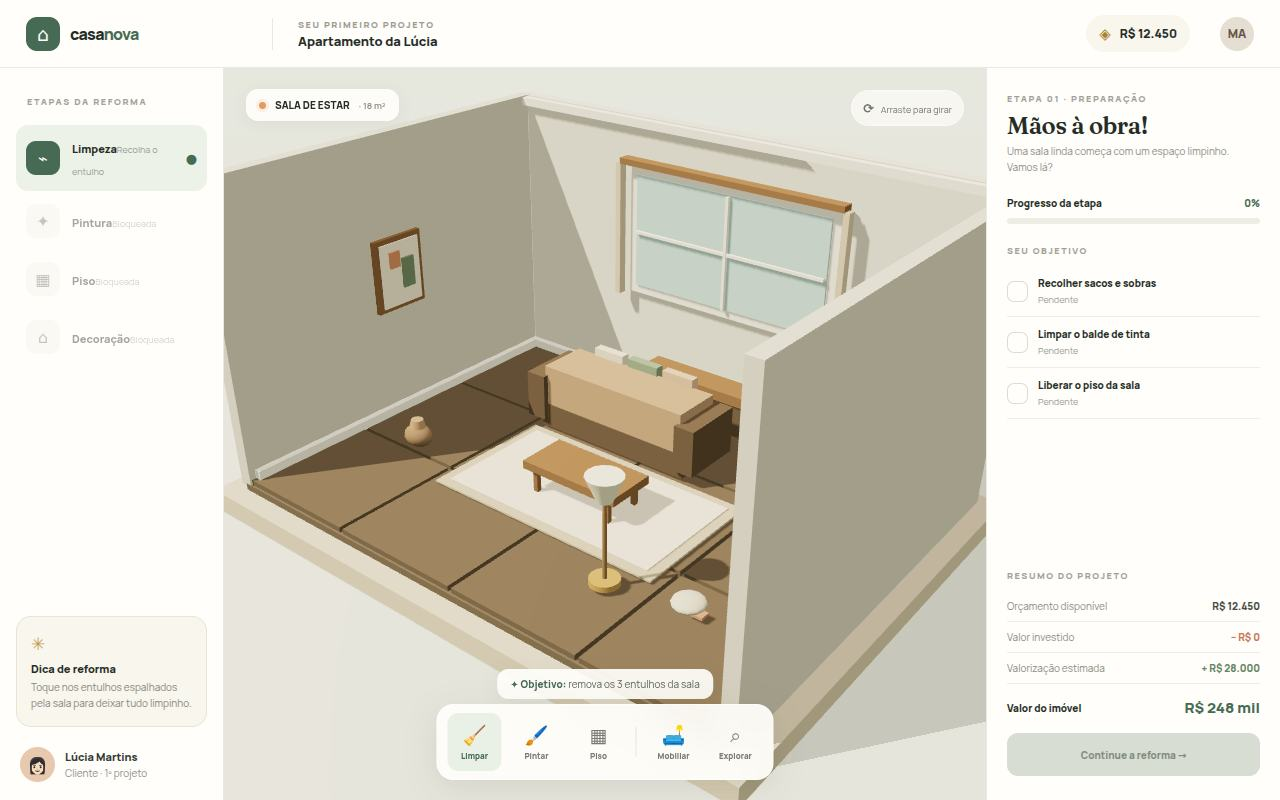
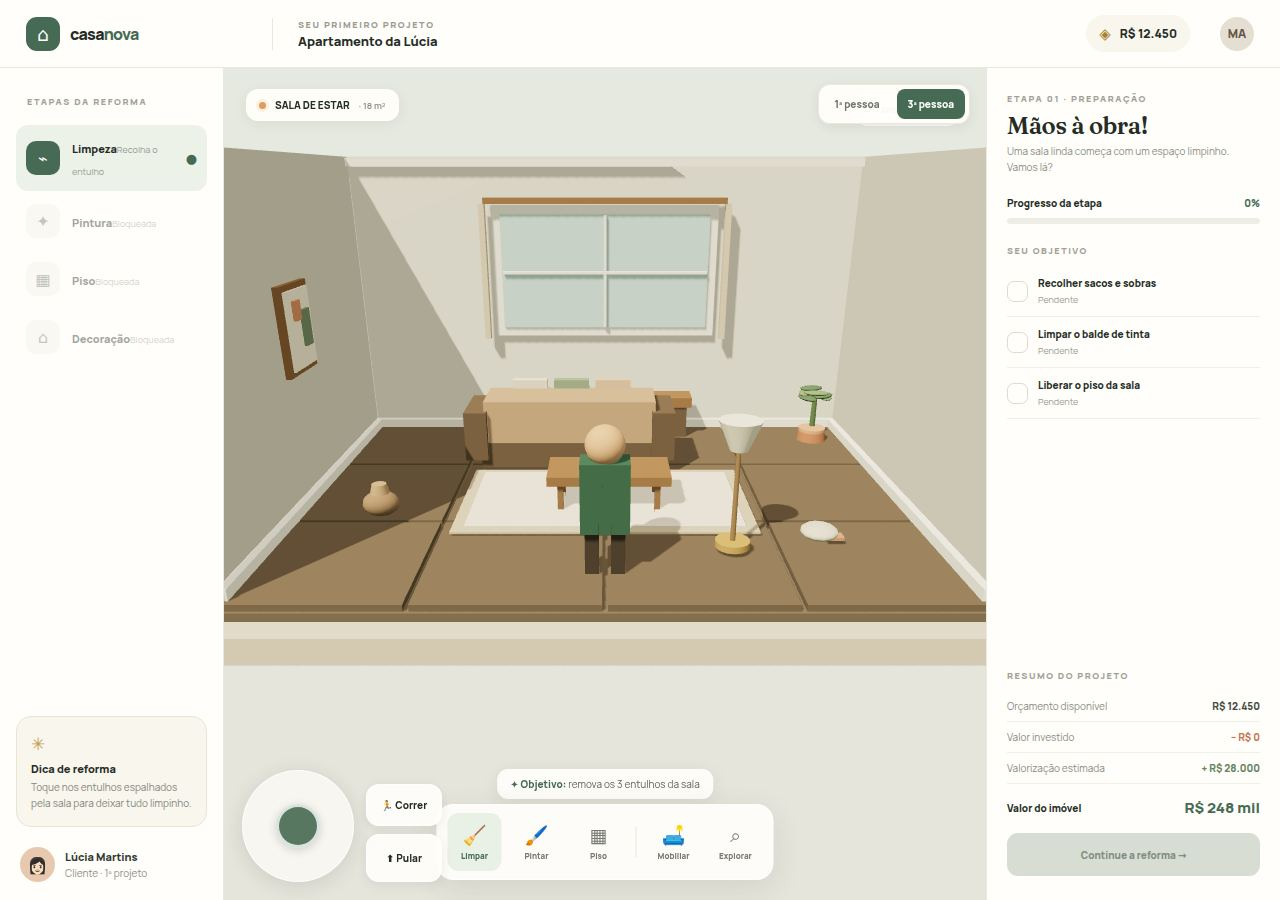
Publish static build for issue #1
Run: 43530360311
Attempt: 1
Generation: 7
Source: 6151cc0d538459a9d2c736183726f8a03269a604

diff --git a/index.html b/index.html
@@ -9,13 +9,13 @@
 @media(max-width:760px){.topbar{height:54px;padding:0 14px;gap:11px}.brand{width:auto;gap:8px}.brand-mark{width:30px;height:30px;border-radius:9px;font-size:16px}.brand-name{font-size:14px}.top-project{padding-left:11px}.eyebrow{font-size:7px;letter-spacing:1px}.project-name{font-size:10px}.coin{padding:7px 9px;font-size:10px;gap:5px}.coin i{font-size:12px}.avatar{height:29px;width:29px;font-size:10px;margin:0}.main{position:relative}.center{position:absolute;inset:0}.leftbar{display:none}.rightbar{display:none}.mobile-top{display:flex;position:absolute;top:11px;left:12px;right:12px;z-index:2;justify-content:space-between;align-items:flex-start;pointer-events:none}.mobile-card{background:#fffefaee;border-radius:12px;padding:9px 11px;box-shadow:0 3px 12px #252c2715;pointer-events:auto}.mobile-step{font-size:8px;color:#919389;font-weight:800;letter-spacing:1px}.mobile-title{font:600 16px Fraunces,serif;margin-top:2px}.mobile-progress{font-size:9px;font-weight:800;color:var(--green);display:flex;align-items:center;gap:6px}.mobile-progress i{width:39px;height:4px;background:linear-gradient(90deg,#648264 var(--p,0%),#ebece4 var(--p,0%));border-radius:4px}.camera-hint{top:73px;right:12px;padding:6px 9px;font-size:8px}.scene-badge{top:73px;left:12px;font-size:9px;padding:7px 9px;gap:6px}.toast{top:119px;font-size:10px;max-width:calc(100% - 30px);overflow:hidden;text-overflow:ellipsis}.taskbar{bottom:max(15px,env(safe-area-inset-bottom));gap:3px;padding:6px 7px;border-radius:15px}.tool{width:48px;height:51px}.tool-icon{font-size:17px;line-height:20px}.tool-label{font-size:7px}.tool-sep{height:25px;margin:0}.task-pop{bottom:83px;font-size:9px;max-width:calc(100% - 24px);overflow:hidden;text-overflow:ellipsis}.mobile-stage{display:flex;position:absolute;z-index:2;left:12px;right:12px;bottom:92px;align-items:center;justify-content:space-between;pointer-events:none}.stage-pill{font-size:9px;background:#fffefaeb;padding:7px 10px;border-radius:9px;box-shadow:0 2px 9px #252c2710;font-weight:800}.stage-next{font-size:9px;background:var(--green);color:white;padding:8px 11px;border-radius:9px;font-weight:800;border:0;pointer-events:auto}.stage-next:disabled{opacity:.45}.brand .brand-name{letter-spacing:-.5px}}
 @media(max-width:390px){.brand-name{font-size:12px}.top-project{display:none}.tool{width:43px}.mobile-title{font-size:14px}.taskbar{gap:1px}.tool-sep{margin:0 1px}}
 @media(orientation:landscape) and (max-height:520px){.topbar{height:46px}.leftbar{padding-top:10px}.rightbar{padding-top:12px}.scene-badge{top:10px}.camera-hint{top:10px}.taskbar{bottom:8px}.task-pop{bottom:83px}.mobile-top{top:7px}.mobile-stage{bottom:77px}.tool{height:45px}}
-</style>
+#game,#game canvas{touch-action:none}.view-controls{position:absolute;z-index:4;top:16px;right:16px;display:flex;gap:6px;padding:4px;background:#fffefaed;border:1px solid #eae8df;border-radius:12px;box-shadow:0 3px 12px #252c2715}.view-btn{border:0;background:transparent;border-radius:8px;padding:8px 11px;font-size:10px;font-weight:800;color:#71766e}.view-btn.active{background:var(--green);color:white}.move-controls{position:absolute;z-index:4;left:18px;bottom:18px;display:flex;align-items:flex-end;gap:12px;pointer-events:none}.joystick{width:112px;height:112px;border-radius:50%;background:#fffefaad;border:1px solid #ffffffc9;box-shadow:0 4px 20px #252c2720;position:relative;touch-action:none;pointer-events:auto}.joy-thumb{position:absolute;width:44px;height:44px;left:50%;top:50%;transform:translate(-50%,-50%);border-radius:50%;background:#466a54e8;border:3px solid #ffffffc9;box-shadow:0 2px 8px #252c2730}.action-controls{display:flex;flex-direction:column;gap:8px;pointer-events:auto}.action-btn{min-width:76px;height:42px;border:1px solid #ffffffc9;border-radius:13px;background:#fffefaed;box-shadow:0 3px 12px #252c2715;font-size:10px;font-weight:800;touch-action:none}.action-btn.active{background:var(--green);color:white}.jump-btn{height:48px}.look-crosshair{position:absolute;z-index:2;left:50%;top:50%;width:7px;height:7px;margin:-3px 0 0 -3px;border:1px solid #fff;border-radius:50%;box-shadow:0 0 3px #20251f;pointer-events:none;display:none}.center.fps .look-crosshair{display:block}.center.fps .camera-hint{display:none}.center.fps #game{cursor:crosshair}.center.fps #game canvas{cursor:crosshair}@media(max-width:760px){.view-controls{top:116px;right:12px;padding:3px;gap:2px}.view-btn{padding:7px 8px;font-size:8px}.move-controls{left:12px;bottom:105px;gap:8px}.joystick{width:94px;height:94px}.joy-thumb{width:38px;height:38px}.action-btn{min-width:66px;height:38px;font-size:9px}.jump-btn{height:44px}.center.fps .taskbar{bottom:max(15px,env(safe-area-inset-bottom))}}@media(max-width:390px){.move-controls{bottom:102px}.joystick{width:82px;height:82px}.joy-thumb{width:34px;height:34px}.action-btn{min-width:58px;height:35px}.jump-btn{height:41px}}\n</style>
 </head>
 <body><div id="app">
 <header class="topbar"><div class="brand"><div class="brand-mark">⌂</div><div class="brand-name">casa<span>nova</span></div></div><div class="top-project"><div class="eyebrow">SEU PRIMEIRO PROJETO</div><div class="project-name">Apartamento da Lúcia</div></div><div class="top-spacer"></div><div class="coin"><i>◈</i><span id="cash">R$ 12.450</span></div><div class="avatar">MA</div></header>
 <div class="main">
 <aside class="leftbar"><div class="left-title">ETAPAS DA REFORMA</div><div id="phaseList"></div><div class="side-bottom"><div class="tip-card"><div class="tip-star">✳</div><div class="tip-title">Dica de reforma</div><div class="tip-copy" id="tipCopy">Toque nos entulhos espalhados pela sala para deixar tudo limpinho.</div></div><div class="client-row"><div class="client-avatar">👩🏻</div><div class="client-copy"><b>Lúcia Martins</b>Cliente · 1º projeto</div></div></div></aside>
-<section class="center"><div id="game" aria-label="Cena 3D interativa da reforma"></div><div class="scene-badge"><span class="scene-dot"></span><span>SALA DE ESTAR</span><span class="scene-sub">· 18 m²</span></div><div class="camera-hint"><b>⟳</b> Arraste para girar</div><div id="toast" class="toast"></div><div class="mobile-top"><div class="mobile-card"><div class="mobile-step" id="mobileStep">ETAPA 01</div><div class="mobile-title" id="mobileTitle">Vamos limpar</div></div><div class="mobile-card mobile-progress"><i id="mobileProgress"></i><span id="mobileCount">0 / 3</span></div></div><div class="mobile-stage"><div class="stage-pill" id="mobileStagePill">⌁&nbsp; Limpeza</div><button class="stage-next" id="mobileNext" disabled>Continuar&nbsp; →</button></div><div class="task-pop" id="taskPop"><strong>✦ Objetivo:</strong> remova os 3 entulhos da sala</div><div class="taskbar" id="taskbar"><button class="tool active" data-tool="clean"><span class="tool-icon">🧹</span><span class="tool-label">Limpar</span></button><button class="tool" data-tool="paint"><span class="tool-icon">🖌</span><span class="tool-label">Pintar</span></button><button class="tool" data-tool="floor"><span class="tool-icon">▦</span><span class="tool-label">Piso</span></button><span class="tool-sep"></span><button class="tool" data-tool="furnish"><span class="tool-icon">🛋</span><span class="tool-label">Mobiliar</span></button><button class="tool" data-tool="inspect"><span class="tool-icon">⌕</span><span class="tool-label">Explorar</span></button></div></section>
+<section class="center"><div id="game" aria-label="Cena 3D interativa da reforma"></div><div class="view-controls" aria-label="Modo de câmera"><button class="view-btn active" data-view="first">1ª pessoa</button><button class="view-btn" data-view="third">3ª pessoa</button></div><div class="look-crosshair"></div><div class="move-controls"><div class="joystick" id="joystick" aria-label="Joystick para andar"><div class="joy-thumb" id="joyThumb"></div></div><div class="action-controls"><button class="action-btn" id="runBtn">🏃 Correr</button><button class="action-btn jump-btn" id="jumpBtn">⬆ Pular</button></div></div><div class="scene-badge"><span class="scene-dot"></span><span>SALA DE ESTAR</span><span class="scene-sub">· 18 m²</span></div><div class="camera-hint"><b>⟳</b> Arraste para girar</div><div id="toast" class="toast"></div><div class="mobile-top"><div class="mobile-card"><div class="mobile-step" id="mobileStep">ETAPA 01</div><div class="mobile-title" id="mobileTitle">Vamos limpar</div></div><div class="mobile-card mobile-progress"><i id="mobileProgress"></i><span id="mobileCount">0 / 3</span></div></div><div class="mobile-stage"><div class="stage-pill" id="mobileStagePill">⌁&nbsp; Limpeza</div><button class="stage-next" id="mobileNext" disabled>Continuar&nbsp; →</button></div><div class="task-pop" id="taskPop"><strong>✦ Objetivo:</strong> remova os 3 entulhos da sala</div><div class="taskbar" id="taskbar"><button class="tool active" data-tool="clean"><span class="tool-icon">🧹</span><span class="tool-label">Limpar</span></button><button class="tool" data-tool="paint"><span class="tool-icon">🖌</span><span class="tool-label">Pintar</span></button><button class="tool" data-tool="floor"><span class="tool-icon">▦</span><span class="tool-label">Piso</span></button><span class="tool-sep"></span><button class="tool" data-tool="furnish"><span class="tool-icon">🛋</span><span class="tool-label">Mobiliar</span></button><button class="tool" data-tool="inspect"><span class="tool-icon">⌕</span><span class="tool-label">Explorar</span></button></div></section>
 <aside class="rightbar"><div class="inspector-kicker" id="inspectorKicker">ETAPA 01 · PREPARAÇÃO</div><div class="inspector-title" id="inspectorTitle">Mãos à obra!</div><div class="inspector-desc" id="inspectorDesc">Uma sala linda começa com um espaço limpinho. Vamos lá?</div><div class="progress-wrap"><div class="progress-label"><span>Progresso da etapa</span><span id="progressText">0%</span></div><div class="progress-track"><div class="progress-fill" id="progressFill"></div></div></div><div class="objective-head">SEU OBJETIVO</div><div id="objectives"></div><div id="catalog" class="item-list" style="display:none"></div><div class="budget-card"><div class="objective-head">RESUMO DO PROJETO</div><div class="budget-line"><span>Orçamento disponível</span><strong id="budgetStart">R$ 12.450</strong></div><div class="budget-line"><span>Valor investido</span><strong class="minus" id="spent">− R$ 0</strong></div><div class="budget-line"><span>Valorização estimada</span><strong class="plus">+ R$ 28.000</strong></div><div class="budget-total"><span>Valor do imóvel</span><strong>R$ 248 mil</strong></div><button id="completeBtn" class="complete-btn" disabled>Continue a reforma&nbsp; →</button></div></aside>
 </div></div>
 <div class="modal-backdrop" id="finishModal"><div class="modal"><div class="modal-emoji">🏡✨</div><h2>Ficou um sonho!</h2><p>A Lúcia vai amar a casa nova. Você transformou cada cantinho com carinho — e ainda valorizou o imóvel!</p><div class="modal-stats"><div class="stat"><b>+R$ 28 mil</b><span>VALORIZAÇÃO</span></div><div class="stat"><b id="finishSpent">R$ 0</b><span>INVESTIDO</span></div><div class="stat"><b>100%</b><span>CLIENTE FELIZ</span></div></div><button id="restartBtn">Reformar mais uma vez&nbsp; ↻</button></div></div>

diff --git a/game.js b/game.js
@@ -29,9 +29,20 @@ cyl(room,.2,.2,.08,mat('#bb985a'),1.45,.24,1.8);cyl(room,.025,.03,1.15,mat('#997
 const trash=[];function makeTrash(x,z,n){let g=new THREE.Group();g.position.set(x,.12,z);g.userData.trash=true;room.add(g);if(n===0){let a=new THREE.Mesh(new THREE.SphereGeometry(.23,14,10),mat('#9a7e63'));a.scale.set(1,.7,.8);a.position.y=.2;g.add(a);cyl(g,.09,.12,.12,mat('#b69776'),0,.4,0)}if(n===1){let a=new THREE.Mesh(new THREE.SphereGeometry(.22,12,10),mat('#d5cebb'));a.scale.set(1,.4,1);a.position.y=.15;g.add(a);box(g,.2,.04,.14,mat('#bf8e71'),.17,.1,.05)}if(n===2){cyl(g,.19,.15,.36,mat('#7b806f'),0,.2,0);cyl(g,.22,.22,.05,mat('#a3a18c'),0,.4,0)}trash.push(g)}makeTrash(-2.8,.85,0);makeTrash(2.5,1.55,1);makeTrash(-1.85,-2.2,2);
 const ground=new THREE.Mesh(new THREE.PlaneGeometry(200,200),mat('#e2e6dc'));ground.rotation.x=-Math.PI/2;ground.position.y=-.37;ground.receiveShadow=true;scene.add(ground);
 
-const cameraTarget=new THREE.Vector3(0,.95,0),raycaster=new THREE.Raycaster(),pointer=new THREE.Vector2();let down=null,dragged=false,angle=.68,zoom=1;
-function fit(){const el=$('#game'),w=el.clientWidth,h=el.clientHeight;if(!w||!h)return;renderer.setSize(w,h,false);camera.aspect=w/h;camera.fov=innerWidth<760?38:36;const mobile=innerWidth<760,portrait=innerHeight>innerWidth,d=mobile?(portrait?17:13.6):13.2;const theta=angle;camera.position.set(Math.sin(theta)*d/zoom,(mobile?.60:.63)*d/zoom,Math.cos(theta)*d/zoom);camera.lookAt(cameraTarget);camera.updateProjectionMatrix()}
+const cameraTarget=new THREE.Vector3(0,.95,0),raycaster=new THREE.Raycaster(),pointer=new THREE.Vector2();let down=null,dragged=false,angle=0,zoom=1,viewMode='first',yaw=0,pitch=.16,moveX=0,moveY=0,running=false,jumpVelocity=0,jumpHeight=0,lastFrame=performance.now();
+const player={x:0,z:2.25};const avatar=new THREE.Group();avatar.position.set(player.x,0,player.z);room.add(avatar);const avatarMat=mat('#466a54'),skinMat=mat('#d7aa83');box(avatar,.52,.78,.32,avatarMat,0,1.03,0);const head=new THREE.Mesh(new THREE.SphereGeometry(.21,16,12),skinMat);head.position.set(0,1.58,0);head.castShadow=true;avatar.add(head);for(const x of [-.14,.14])box(avatar,.15,.65,.17,mat('#51483e'),x,.36,0);avatar.visible=false;
+function fit(){const el=$('#game'),w=el.clientWidth,h=el.clientHeight;if(!w||!h)return;renderer.setSize(w,h,false);camera.aspect=w/h;camera.fov=innerWidth<760?62:58;camera.updateProjectionMatrix();updateCamera()}
+function updateCamera(){avatar.visible=viewMode==='third';avatar.position.set(player.x,0,player.z);avatar.rotation.y=yaw;if(viewMode==='first'){camera.position.set(player.x,1.62+jumpHeight,player.z);camera.rotation.order='YXZ';camera.rotation.set(pitch,yaw,0)}else{const d=(innerWidth<760?8.2:7.2)/zoom,target=new THREE.Vector3(player.x,1.15+jumpHeight,player.z);camera.position.set(player.x+Math.sin(angle)*d,4.1+jumpHeight,player.z+Math.cos(angle)*d);camera.lookAt(target)}}
 new ResizeObserver(fit).observe($('#game'));window.addEventListener('resize',fit);fit();
+function setView(mode){viewMode=mode;$$('.view-btn').forEach(b=>b.classList.toggle('active',b.dataset.view===mode));$('#game').parentElement.classList.toggle('fps',mode==='first');updateCamera()}
+$$('.view-btn').forEach(b=>b.addEventListener('click',()=>setView(b.dataset.view)));setView(viewMode);
+const joy=$('#joystick'),joyThumb=$('#joyThumb');function resetJoy(){moveX=moveY=0;joyThumb.style.transform='translate(-50%,-50%)';joy.classList.remove('engaged')}
+joy.addEventListener('pointerdown',e=>{e.preventDefault();joy.setPointerCapture(e.pointerId);joy.classList.add('engaged');moveJoy(e)});joy.addEventListener('pointermove',e=>{if(joy.hasPointerCapture(e.pointerId))moveJoy(e)});joy.addEventListener('pointerup',resetJoy);joy.addEventListener('pointercancel',resetJoy);
+function moveJoy(e){const r=joy.getBoundingClientRect(),dx=e.clientX-(r.left+r.width/2),dy=e.clientY-(r.top+r.height/2),max=r.width*.34,len=Math.hypot(dx,dy),scale=len>max?max/len:1;moveX=dx*scale/max;moveY=dy*scale/max;joyThumb.style.transform=`translate(calc(-50% + ${dx*scale}px),calc(-50% + ${dy*scale}px))`}
+const runBtn=$('#runBtn'),jumpBtn=$('#jumpBtn');runBtn.addEventListener('pointerdown',e=>{e.preventDefault();running=true;runBtn.classList.add('active');runBtn.setPointerCapture(e.pointerId)});function stopRun(){running=false;runBtn.classList.remove('active')}runBtn.addEventListener('pointerup',stopRun);runBtn.addEventListener('pointercancel',stopRun);runBtn.addEventListener('lostpointercapture',stopRun);
+function jump(){if(jumpHeight<=0.001)jumpVelocity=5.1}jumpBtn.addEventListener('pointerdown',e=>{e.preventDefault();jump()});
+const keys=new Set();window.addEventListener('keydown',e=>{const k=e.key.toLowerCase();if(['w','a','s','d','arrowup','arrowdown','arrowleft','arrowright',' '].includes(k)&&!['BUTTON','INPUT'].includes(e.target?.tagName))e.preventDefault();keys.add(k);if(k===' ')jump();if(k==='shift')running=true});window.addEventListener('keyup',e=>{keys.delete(e.key.toLowerCase());if(e.key==='Shift')running=false});window.addEventListener('blur',()=>{keys.clear();running=false;resetJoy()});
+function updatePlayer(dt){let x=moveX,y=moveY;if(keys.has('a')||keys.has('arrowleft'))x-=1;if(keys.has('d')||keys.has('arrowright'))x+=1;if(keys.has('w')||keys.has('arrowup'))y-=1;if(keys.has('s')||keys.has('arrowdown'))y+=1;const len=Math.hypot(x,y);if(len>1){x/=len;y/=len}let forwardX,forwardZ;if(viewMode==='first'){forwardX=-Math.sin(yaw);forwardZ=-Math.cos(yaw)}else{forwardX=-Math.sin(angle);forwardZ=-Math.cos(angle)}const rightX=-forwardZ,rightZ=forwardX,speed=running?3.8:2.25;player.x=THREE.MathUtils.clamp(player.x+(rightX*x+forwardX*-y)*speed*dt,-3.52,3.52);player.z=THREE.MathUtils.clamp(player.z+(rightZ*x+forwardZ*-y)*speed*dt,-2.5,2.52);if(viewMode==='third'&&len>.12)yaw=Math.atan2(forwardX*-y+rightX*x,-(forwardZ*-y+rightZ*x));jumpHeight=Math.max(0,jumpHeight+jumpVelocity*dt);jumpVelocity-=14*dt;if(jumpHeight===0&&jumpVelocity<0)jumpVelocity=0;updateCamera()}
 function pop(text){const el=$('#toast');el.textContent=text;el.classList.add('show');clearTimeout(pop.timer);pop.timer=setTimeout(()=>el.classList.remove('show'),2100)}
 function count(){return stage===0?cleaned:stage===1?painted.size:stage===2?tiles.size:placed.size}
 function pct(){return Math.round(count()/goals[stage]*100)}
@@ -50,5 +61,5 @@ function interact(e){if(tool==='inspect')return;let target=null;if(stage===0){co
 if(stage===1){const h=hitsFor([back,left,right],e).find(x=>x.object);if(!h){pop('Toque em uma das paredes para pintar 🖌');return}target=h.object;if(painted.has(target.uuid)){pop('Essa parede já está linda!');return}painted.add(target.uuid);target.material=mat(paints[paintChoice][1],.9);spend(220);pop(`Parede pintada de ${paints[paintChoice][0].toLowerCase()}! 🎨`);update();return}
 if(stage===2){const h=hitsFor(tilesObj,e).find(x=>x.object);if(!h){pop('Toque em uma placa do piso para renovar ▦');return}const id=h.object.userData.tile;if(tiles.has(id)){pop('Essa placa já está renovada!');return}tiles.add(id);h.object.material=mat(floors[floorChoice][1],.78);spend(120);pop(`${floors[floorChoice][0]} instalado! 🪵`);update();return}
 if(stage===3){pointerRay(e);const plane=new THREE.Plane(new THREE.Vector3(0,1,0),-.08),point=new THREE.Vector3();if(!raycaster.ray.intersectPlane(plane,point)||point.x< -4||point.x>4||point.z< -3||point.z>3){pop('Toque no chão para colocar o móvel!');return}if(placed.has(itemChoice)){pop('Esse item já está na sala! Escolha outro no catálogo.');return}placeItem(itemChoice,point.x,point.z);placed.add(itemChoice);spend(items[itemChoice][2]);pop(`${items[itemChoice][0]} adicionado à sala! ${items[itemChoice][1]}`);update()}}
-renderer.domElement.addEventListener('pointerdown',e=>{down={x:e.clientX,y:e.clientY};dragged=false;renderer.domElement.setPointerCapture(e.pointerId)});renderer.domElement.addEventListener('pointermove',e=>{if(!down)return;const dx=e.clientX-down.x,dy=e.clientY-down.y;if(Math.abs(dx)+Math.abs(dy)>4){dragged=true;angle+=dx*.008;const mobile=innerWidth<760,base=mobile?(innerHeight>innerWidth?17:13.6):13.2;const dist=base/zoom;camera.position.x=Math.sin(angle)*dist;camera.position.z=Math.cos(angle)*dist;camera.position.y=THREE.MathUtils.clamp(camera.position.y-dy*.012,4.4,11);camera.lookAt(cameraTarget);down={x:e.clientX,y:e.clientY}}});renderer.domElement.addEventListener('pointerup',e=>{if(!dragged&&down)interact(e);down=null});renderer.domElement.addEventListener('pointercancel',()=>down=null);renderer.domElement.addEventListener('wheel',e=>{zoom=THREE.MathUtils.clamp(zoom+(e.deltaY>0?-.08:.08),.78,1.35);fit()},{passive:true});
-update();function animate(){requestAnimationFrame(animate);renderer.render(scene,camera)}animate();
+renderer.domElement.style.touchAction='none';renderer.domElement.addEventListener('pointerdown',e=>{down={x:e.clientX,y:e.clientY};dragged=false;renderer.domElement.setPointerCapture(e.pointerId)});renderer.domElement.addEventListener('pointermove',e=>{if(!down)return;const dx=e.clientX-down.x,dy=e.clientY-down.y;if(Math.abs(dx)+Math.abs(dy)>4){dragged=true;if(viewMode==='first'){yaw-=dx*.006;pitch=THREE.MathUtils.clamp(pitch-dy*.005,-1.15,1.15)}else{angle-=dx*.008;zoom=THREE.MathUtils.clamp(zoom+dy*.002,.78,1.35)}updateCamera();down={x:e.clientX,y:e.clientY}}});renderer.domElement.addEventListener('pointerup',e=>{if(!dragged&&down)interact(e);down=null});renderer.domElement.addEventListener('pointercancel',()=>down=null);renderer.domElement.addEventListener('wheel',e=>{if(viewMode==='third'){zoom=THREE.MathUtils.clamp(zoom+(e.deltaY>0?-.08:.08),.78,1.35);updateCamera()}},{passive:true});
+update();function animate(){requestAnimationFrame(animate);const now=performance.now(),dt=Math.min((now-lastFrame)/1000,.05);lastFrame=now;updatePlayer(dt);renderer.render(scene,camera)}animate();
